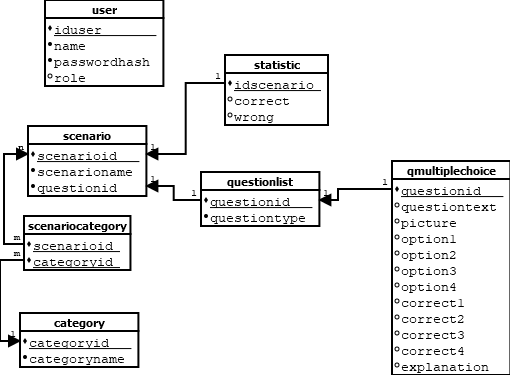
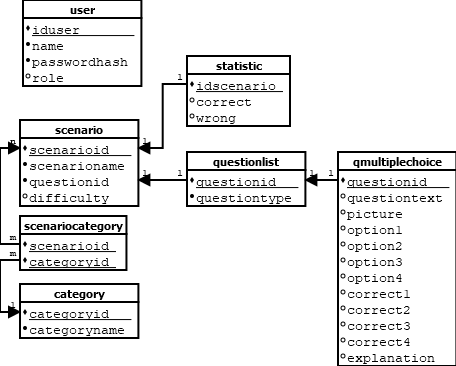
Difficultyhandling added.

Changed region(s): [[0.0, 0.0, 1.0, 1.0]]

diff --git a/server/contentTools.js b/server/contentTools.js
@@ -1,11 +1,17 @@
 const {db, queryPromise, getNextID} = require("./dbpool");
-
+/**
+ * Inserts data to table named "scenario" 
+ * @param {Request object} req 
+ * @param {Number} scenarioID 
+ * @param {Number} questionID 
+ */
 async function insertToScenario(req, scenarioID, questionID){
     let success = false;
+    const difficulty = req.body.scenarioDifficultyVar ? req.body.scenarioDifficultyVar : 2;
     const scenarioName = req.body.scenarioNameVar;
     const scenarioInsert = 
-    "INSERT INTO scenario (scenarioid, scenarioname, questionid) VALUES (?, ?, ?)";
-    await queryPromise(scenarioInsert,[scenarioID, scenarioName, questionID])
+    "INSERT INTO scenario (scenarioid, scenarioname, questionid, difficulty) VALUES (?, ?, ?, ?)";
+    await queryPromise(scenarioInsert,[scenarioID, scenarioName, questionID, difficulty])
         .then((result)=> {
             console.log ("Inserted scenario succesfully 1/4.");
             success = true;        
@@ -24,7 +30,7 @@ async function insertToScenario(req, scenarioID, questionID){
  */
 async function insertToScenarioCategory(req, scenarioID){
     let success = false;
-    const scenarioCat = req.body.scenarioTypeVar;
+    const scenarioCat = req.body.scenarioCategoryVar;
     const categoryarray = new Array();
     for (let i = 0; i < scenarioCat.length; i++){
         categoryarray.push(scenarioID, scenarioCat[i]);
@@ -105,10 +111,11 @@ async function insertToQmultiplechoice(req, questionID){
  * @param {Number} limit 
  * @param {Boolean} game 
  */
-async function getScenarioList(categories = [], limit = 10, game = false){
+async function getScenarioList(categories = [], limit = 10, game = false, difficulty = 2){
     let query = "SELECT * FROM scenario, scenariocategory, category, questionlist "
     query += "WHERE (scenario.scenarioid = scenariocategory.scenarioid "
     query += "AND scenario.questionid = questionlist.questionid "
+    if (game) query += "AND scenario.difficulty = ? ";
     query += "AND category.categoryid = scenariocategory.categoryid) ";
 
     if (categories.length > 0){
@@ -121,7 +128,10 @@ async function getScenarioList(categories = [], limit = 10, game = false){
     let queryarray;
     if (game){
         query += "ORDER BY RAND() LIMIT ?";
-        queryarray = categories.concat([limit]);
+        queryarray = [difficulty].concat(categories.concat([limit]));
+    }
+    else {
+        query += "ORDER BY scenario.scenarioid";
     }
     
 
@@ -133,6 +143,7 @@ async function getScenarioList(categories = [], limit = 10, game = false){
         const element = {
             scenarioid: result[i].scenarioid,
             scenarioname: result[i].scenarioname,
+            scenariodifficulty: result[i].difficulty,
             questionid: result[i].questionid, 
             categoryid: result[i].categoryid,
             categoryname: result[i].categoryname,

diff --git a/server/contentRouter.js b/server/contentRouter.js
@@ -69,7 +69,7 @@ contentRouter.post("/complete", authenticateToken, async (req,res) => {
 
 contentRouter.get("/startgame", async(req, res)=>{
     const body = req.body;
-    const scenarioArray = await getScenarioList(body.categories, body.limit, true);
+    const scenarioArray = await getScenarioList(body.categories, body.limit, true, body.difficulty);
 
     if (scenarioArray.length === 0){
         res.writeHead(500, "No scenarios found.");

diff --git a/server/usertools.js b/server/usertools.js
@@ -101,7 +101,7 @@ async function authenticateToken(req, res, next) {
  */
 
 async function generateAccessToken(user){
-    return jwt.sign(user, process.env.ACCESS_TOKEN_SECRET, {expiresIn: "1h"});
+    return jwt.sign(user, process.env.ACCESS_TOKEN_SECRET, {expiresIn: "12h"});
 }
 
 

diff --git a/server/userRouter.js b/server/userRouter.js
@@ -25,7 +25,7 @@ usersRouter.post('/login', async(req, res)=>{
     }
 
     const accessToken = await generateAccessToken(user);
-    return res.json({accessToken: accessToken});
+    return res.json({accessToken: accessToken, lifetime: "12"});
 });
 
 /**

diff --git a/server/index.js b/server/index.js
@@ -17,6 +17,11 @@ app.use(cors());
 
 app.use("/api/content", contentRouter);
 
+/**
+ * All /api/user HTTP methods go to user.
+ */
+
+
 app.use("/api/user", usersRouter);
 
 /**
